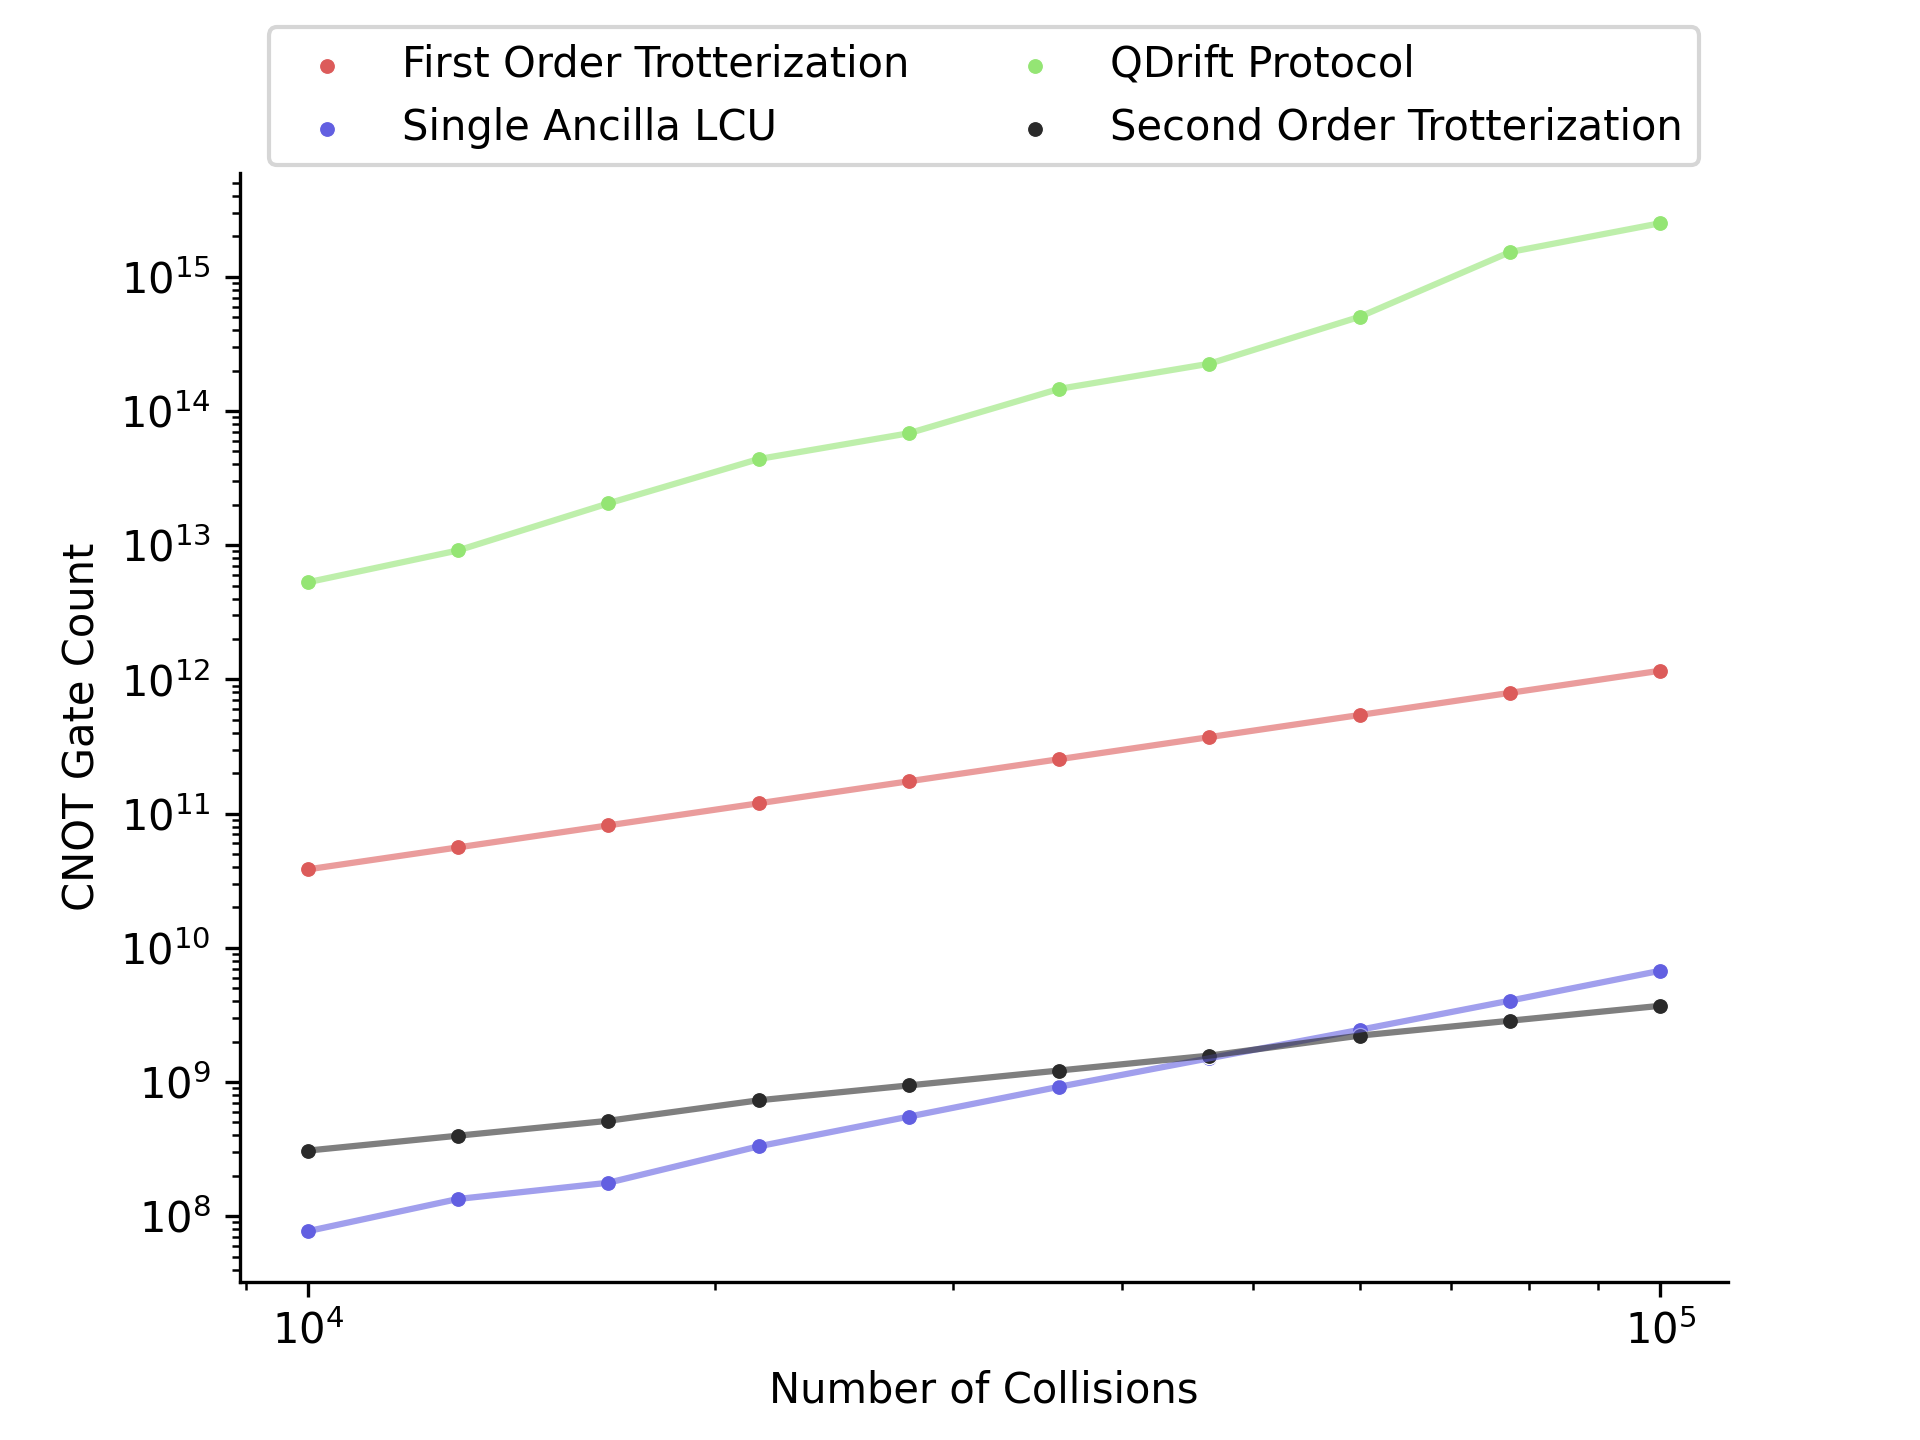
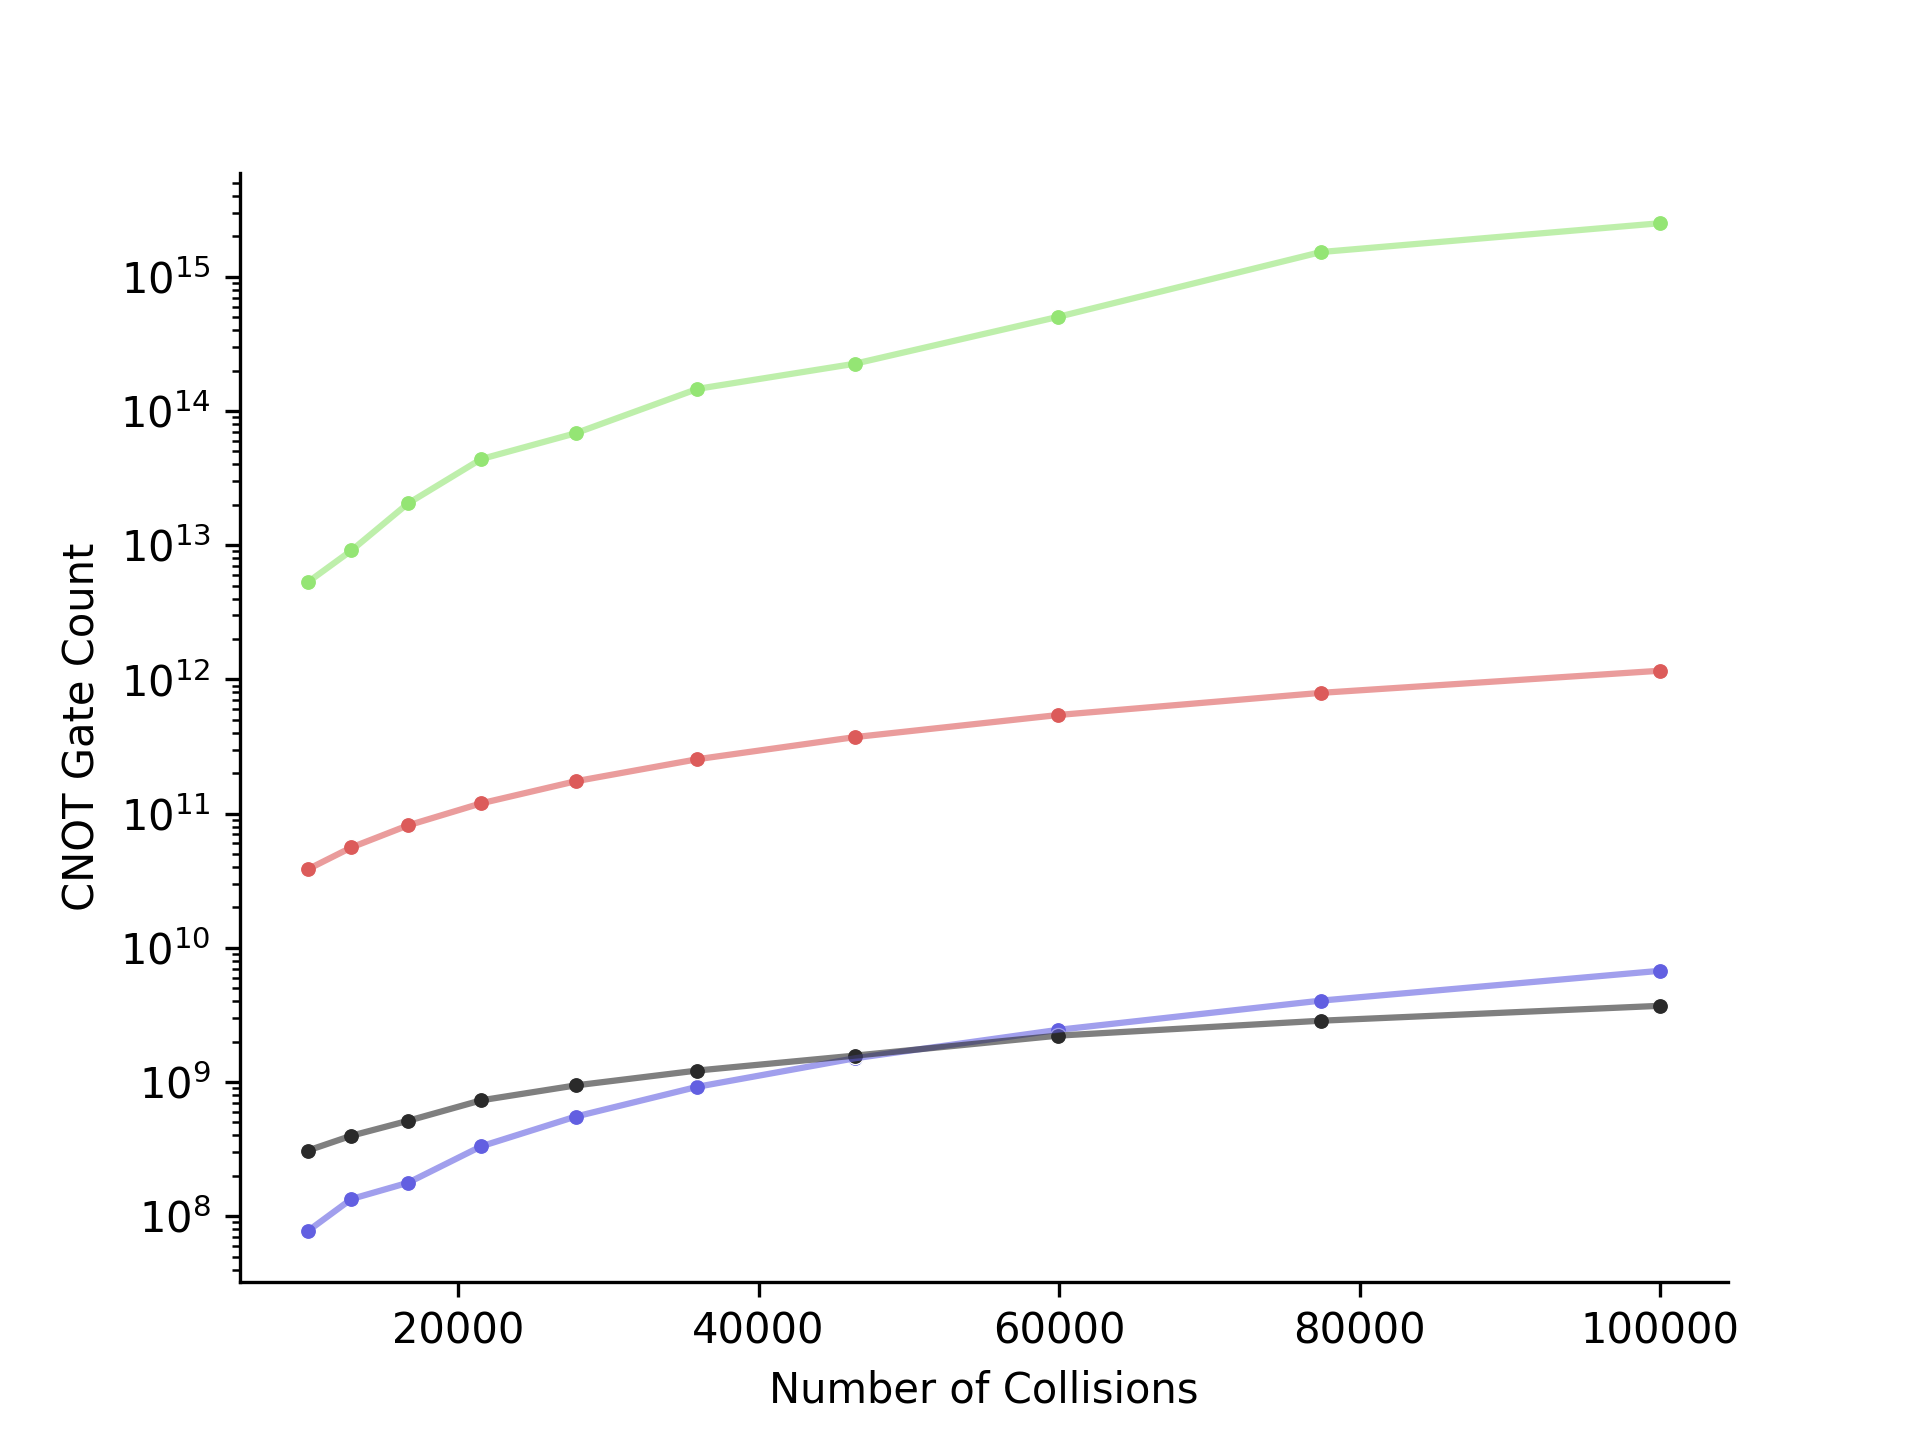
adding no label plot for non-markovian benchmarking num collisions

diff --git a/ising/benchmark/lines/plot_nonmark_time_vs_cx.py b/ising/benchmark/lines/plot_nonmark_time_vs_cx.py
@@ -62,13 +62,13 @@ def test_main():
 
     # plt.title(f"Method-Wise T-Gate Count vs Error for GSP for {name}")
     ax.set_yscale("log")
-    ax.set_xscale("log")
+    # ax.set_xscale("log")
 
 
     file_name = f"plots/benchmark/lines/nonmarkovian/nolabel_size_{QUBIT_COUNT}.png"
 
-    # ax.get_legend().remove()
-    plt.legend(loc="upper center", bbox_to_anchor=(0.5, 1.15), ncol=2, fontsize=10)
+    ax.get_legend().remove()
+    # plt.legend(loc="upper center", bbox_to_anchor=(0.5, 1.15), ncol=2, fontsize=10)
     plt.savefig(file_name, dpi=300)
     print(f"saved the plot to {file_name}")
 
